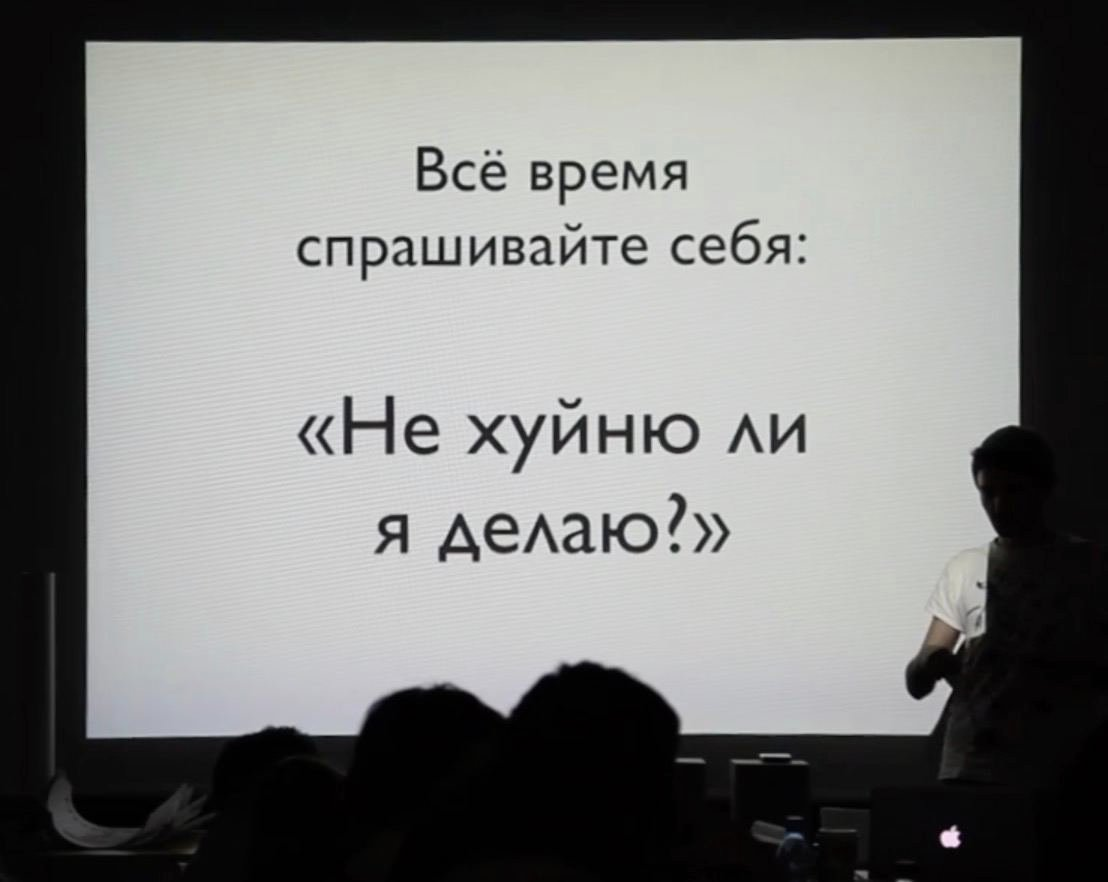
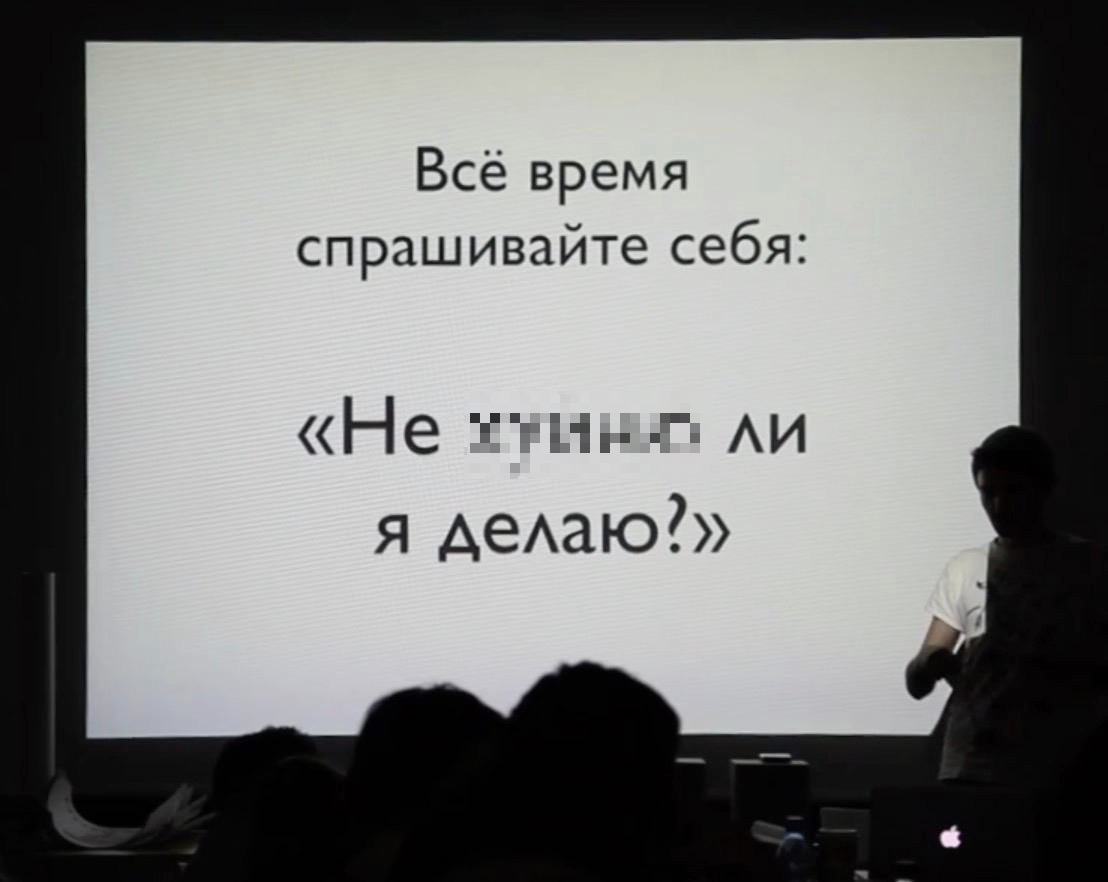
+article fixed and render

Changed region(s): [[0.4296, 0.4286, 0.6444, 0.551]]

diff --git a/content/blog/different/2023-04-02-deliberate-carreer.md b/content/blog/different/2023-04-02-deliberate-carreer.md
@@ -11,6 +11,10 @@ draft: false
 
 Посмотрел доклад Анастасии Калашниковой ["Правила осознанной карьеры разработчика"](https://www.youtube.com/live/3s4b7GOtmd4?feature=share&t=25839) по наводке блоггера. Тема мне показалась интересной, орешил сделать конспект. Рефлексия для меня - это умение остановиться и спросить себя, а не хурму ли я делаю и какие будут последствия в будущем. Действительно, во время работы легко увлечься рутиной и забыть рефлексировать. Тем не менее, нужно останавливаться, ведь это еще и часть обучения. Мало послушать доклад, важно еще и понять, не зря ли его ты послушал и какие полезные советы и практики можно извлечь из него, а тут без рефлексии никуда.
 
+![Ключевая мысль доклада](/images/blog/different/2023-04-02/hurma.jpg)
+
+_Картинка взята из другого доклада на подобную тему_
+
 Рекомендую к просмотру оригинальный доклад, ну а текст тут останется и для меня конспектом, и для читателей, если кто-то захочет сначала ознакомиться с тезисами выступления.
 
 # Конспект
@@ -102,7 +106,7 @@ draft: false
 
 Нужно себе задать вопрос, а зачем вам с нимии уживаться, а также почему вы решили, что они самовлюбленные эгоисты. Бывает так, что вы видите в других то, что в вас самих есть. Задайте себе вопрос, почему вы их считаете эгоистами.
 
-## ЧТо почитать?
+## Что почитать?
 
 - "Личные границы", издательство МИФ. Много упражений на развитие осознанности.
 - "Вся правда обо мне". Есть упражнения, направлена на самопозание и проработку слабых сторон.
